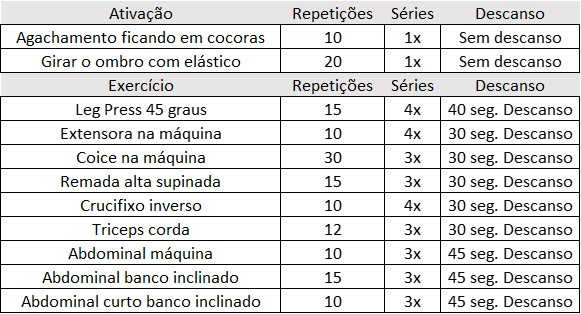
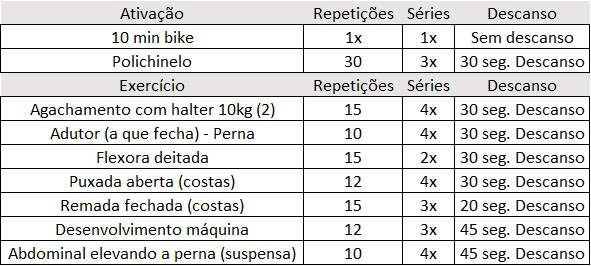
rafa

diff --git a/docs/atletas/1299.html b/docs/atletas/1299.html
@@ -45,14 +45,25 @@
             </div>
         </section>
         <section class="materias">
-            <header class="depoimento_conteudo bloco_cabecalho_degrade">Treinos</a></header>
+            <header class="depoimento_conteudo bloco_cabecalho_degrade">Treino: Tô de olho</a></header>
             <div class="segundapagina espaco">   
                
                 <img class="shoot" src="../galeria/rafaa.jpg">
-                <p>Para o treino de academia desta semana teremos apenas um treino que você fará os três dias. Principalmente em perna, pode aproveitar bastante a carga.
+                <p>Para esse treino, focar bastante na carga, pode pegar bastante peso. O treino está simples, facil e "parado". 
+                    Sem desculpas para não fazer.
             </p>
             
             </div>
+            <section class="materias">
+                <header class="depoimento_conteudo bloco_cabecalho_degrade">Treino: quero só ver heim</a></header>
+                <div class="segundapagina espaco">   
+                   
+                    <img class="shoot" src="../galeria/rafab.jpg">
+                    <p>Este treino já está um pouco mais divertido e dinâmico, aposto que você vai amar, principalmente o aquecimento.
+                        Sorte que não ter afundo, hehe. 
+                </p>
+                
+                </div>
         </section>
         <section class="contato bloco ">
             <header class="contato_cabecalho bloco_cabecalho_degrade">To de olho heim</header>
